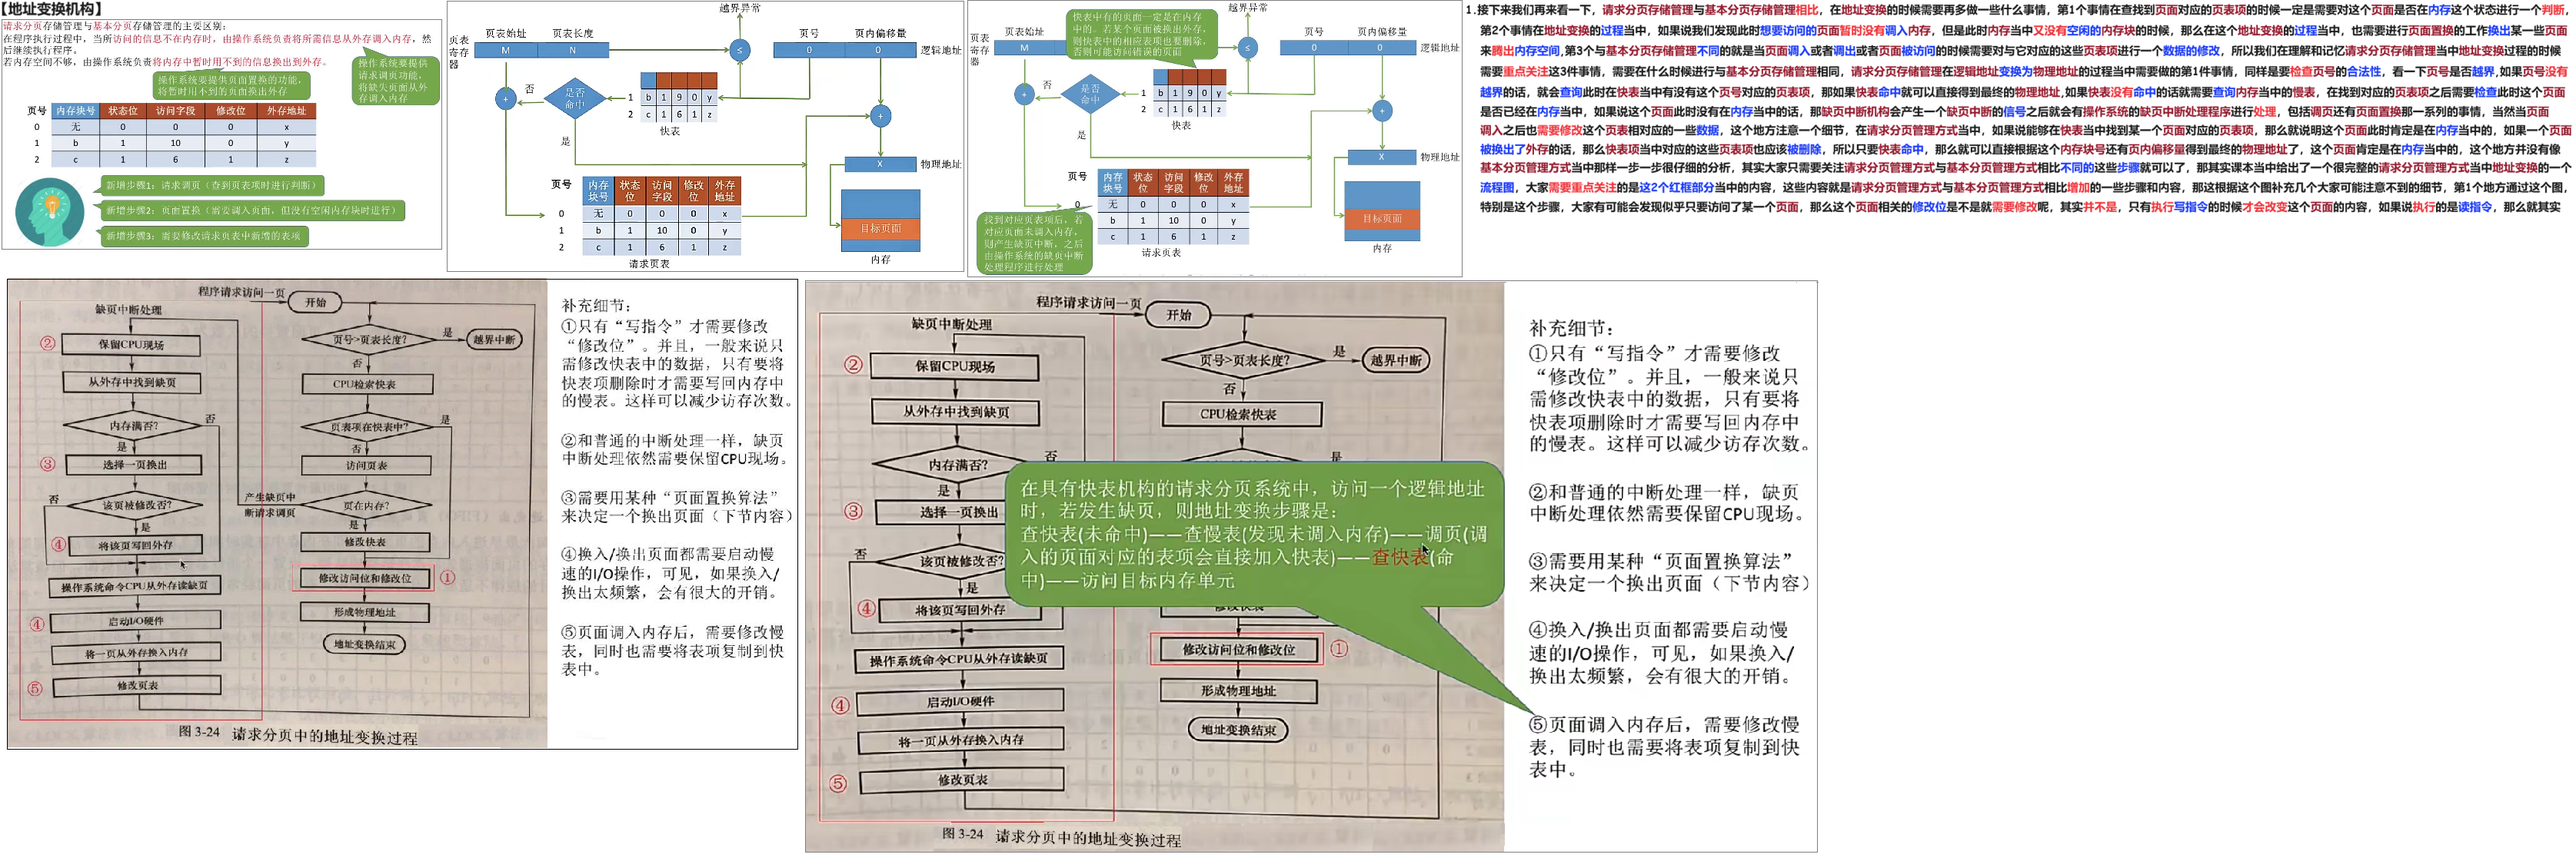
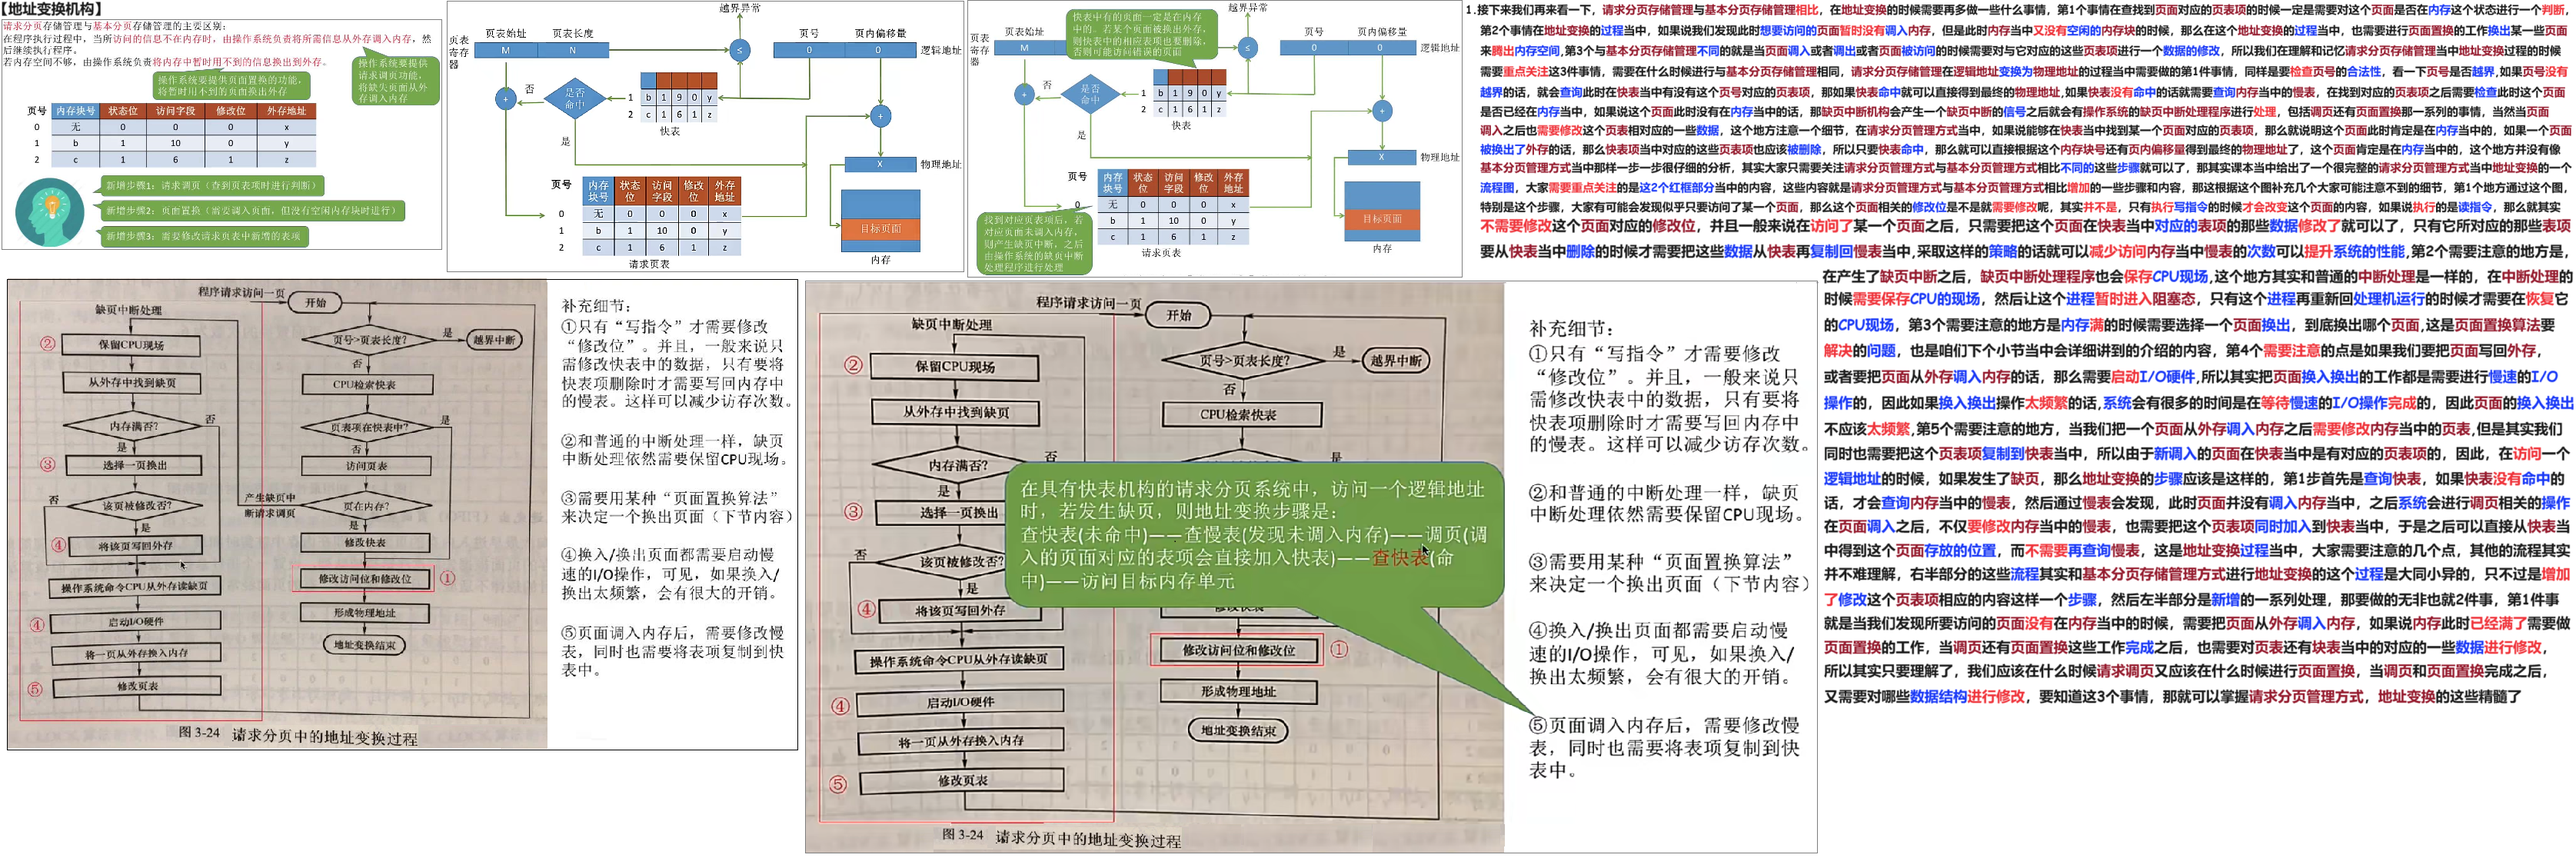
240520

diff --git a/01 初试/01 OS/02 24 25 王道/01 基础/03 内存管理/02 虚拟内存管理/02 请求分页管理方式 240519/02 Doc.md b/01 初试/01 OS/02 24 25 王道/01 基础/03 内存管理/02 虚拟内存管理/02 请求分页管理方式 240519/02 Doc.md
@@ -22,3 +22,10 @@
 
 # 04 地址变换机构
 
+<img src="https://cvp.oss-cn-shanghai.aliyuncs.com/picgo/202405200759829.png" alt="image-20240520075947048" style="zoom:50%;" />
+
+
+
+# 05 知识回顾与重要考点
+
+<img src="https://cvp.oss-cn-shanghai.aliyuncs.com/picgo/202405200814381.png" alt="image-20240520081442202" style="zoom:50%;" />
